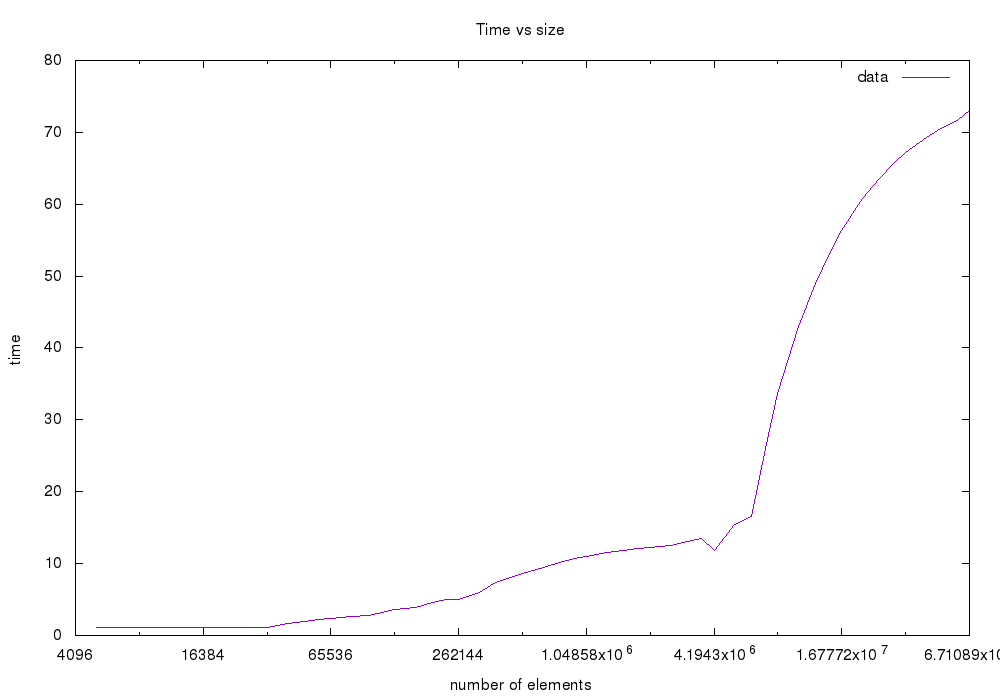
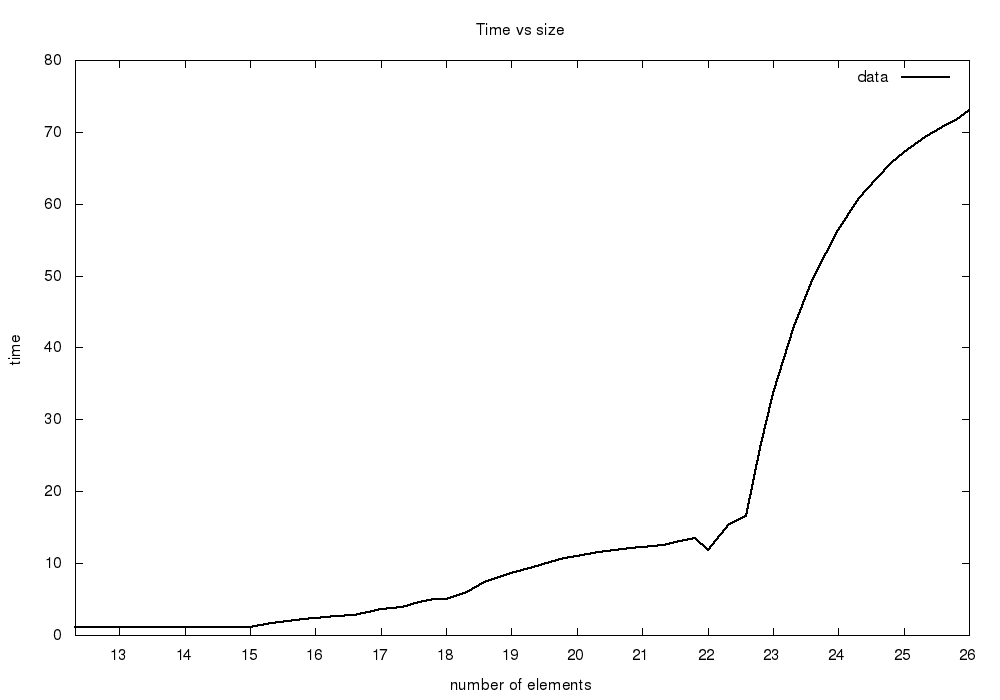
plotting update

diff --git a/hct.cpp b/hct.cpp
@@ -4,7 +4,7 @@
 #include <cstdlib>
 #include <cstring>
 using namespace std;
-#define UNROLLED
+//#define UNROLLED
 uint64_t Rand(){
 	return rand();
 }
@@ -21,7 +21,7 @@ struct link{
 	link * next;
 };
 void run_random_acesses(link * arr,const uint64_t iters){
-	uint64_t i = 0; 
+	uint64_t i = 0;
 #ifdef UNROLLED
 	for(;i < iters-8; i+=8){
 		arr = arr->next;

diff --git a/README.md b/README.md
@@ -1,10 +1,13 @@
-Files:
-	
-	
-Compiler:
-	g++ version 4.8, using the compile.sh script.
+Filename | descrtiption |
+--- | ---
+hct.cpp 					|c++ latency measurement code
+cupid.cpp					|c++ tool to gather cache size data using inline asm calls to cupid
+compile.sh 					|script that compiles hct.cpp and cupid.cpp
+stopped_out.col 			|raw data		
+graphplot.txt				|script that generates graph of the data
 
-## Latency collecting algorithm:
+
+### Latency collecting algorithm:
 
 ##### I created a linked list which had the following properties:
 
@@ -14,45 +17,65 @@ Compiler:
 4. The element it points to is in a random location in the buffer
 5. The linked list has no associated data, only the pointer to the next link
 6. There is only a single loop, so in order to get from a link back to the same link, one must go though every other link.
-	
-To time random acesses, I simply measured the time to iterate through the links 2^28 times.
-	
+
+To time random accesses, I simply measured the time to iterate through the links 2^28 times.
+
 ##### This has some good theoretical properties of measuring latencies:
 
-1. It measures true latency, because it absolutly has to fully bring the memory into the cpu in order to even attempt to start the next memory acess, so there is no possibility of instruction level parelelism making multiple memory acesses simeltaniously.
+1. It measures true latency, because it absolutely has to fully bring the memory into the register in order to even attempt to start the next memory access, so there is no possibility of instruction level parallelism making multiple memory accesses simultaneously.
 2. It completely foils the prefetcher, as it is random.
-		
-##### Bad properties:
-1. I am acessing 8 bytes at once instead of 1. This could theoretically lead to higher latency numbers than the true ones.
-2. I am only using 98% of the buffer because my list creation method is highly ineficcient, and is rather slow for high percentages of large buffer sizes. This means there is a potencial that cache sizes seem larger than the really are.
-		
-	
-I collected data by going into the linux command line, turning off the GUI entirely, and running my program.
 
-Data plot:
+##### Bad properties:
+1. I am accessing 8 bytes at once instead of 1. This could theoretically lead to higher numbers than the true ones, as it might be measuring some costs of moving 8 bytes around instead of just one.
+2. I am only using 98% of the buffer because my list creation method is highly inefficient, and is rather slow for high percentages of large buffer sizes. This means there is a potential that cache sizes seem larger than the really are.
+
+
+#### Producing data:
+
+To generate the data, I used g++ version 4.8, using the compile.sh script. It was done on a Intel 6700HQ processor, 2.7ghertz base, 3.5 max turbo, and seems to usually run at around 3.3. I ran the test from the Ubuntu shell with the graphical user interface entirely turned off to prevent other processes from ruining my data.
+
+#### Data plot
+
+I chose buffer sizes of 2^13-2^28 with 4 points between each power of two to creates a relatively continuous plot on the log scale.
 
 ![alt text](https://github.com/weepingwillowben/sysHW2/blob/master/clean.png "Clean graph")
 
-In the plot of the data, there is a fairly clear increase in latency at 
+In the plot of the data, there is a fairly clear increase in latency at 2^15, a less clear increase between 2^18 and 2^19, and other huge increase right before 2^19. So given just this data, and before I did the analysis that will follow, I thought it very reasonable that the places where there were sudden jumps in latency were exactly where the cache sizes ran out, so I guessed 32kB, around 300kB, and 7mB. I think my reasoning makes sense intuitively because the moment data has to be fetched from the next cache level (since the cache ran out), there will be many misses, and a noticeable increase in latency should follow.
 
-The graph is not monotonous or a step function, which should be expected because with random accesses, if I am using A bytes of memory over a size of B cache, then if A > B, there is a there will still be B bytes in the cache and so there will be  a B/A chance that the next bit of data is still in that cache, so in this simplistic model we should see
+According to my call to cupid (see cupid.cpp)
 
-    latency(BufferSize) = (Sum as i < current_cache_level of
-                                (CacheSize[i] - CacheSize[i-1]) * CacheLatency[i] / BufferSize
-    						)
-                          + CacheLatency[current_cache_level] * (BufferSize - CacheSize[current_cache_level-1]) / BufferSize
+    L1 Cache size = 32768
+    L2 Cache size = 262144
+    L3 Cache size = 6291456
+
+So my guesses were actually fairly close, all of the difference between my rough guesses and the real numbers can by explained by the fact that I did not collect that many data points, and the data tended to get kind of messy when shifting from the L2 to the L3 cache. More on that later.
+
+With a lot more thought, I came up with a more through understanding of why the graph looks the way it does.
+
+The graph is not monotonous or a step function, which should be expected because with random accesses, if I am using A bytes of memory over a size of B cache, then if A > B, there is a there will still be B bytes in the cache and so there will be  a B/A chance that the next bit of data is still in that cache, so in this simplistic model we should see something like the following formula:
+
+    latency(BufferSize):
+		buff_latency = 0
+		cache_level = current_cache_level(BufferSize)
+	 	for i < cache_level
+            buff_latency += CacheSize[i] - CacheSize[i-1]) * CacheLatency[i] / BufferSize
+		buff_latency += CacheLatency[cache_level] * (BufferSize - CacheSize[cache_level-1]) / BufferSize
+		return buff_latency
 
 
-After I got the true cache sizes from cupid, I made another plot, using the above formula and guessed values for the true latencies until the plot of the above function matched the data fairly well. 
+After I got the true cache sizes from cupid, I made another plot, using the above formula and guessed values for the true latencies until the plot of the above function matched the data fairly well.
 
-The plot of the function along with the data is in "measured.png". I think it shows that this is a pretty good model for random acesses on Intel's cache system.
+![alt text](https://github.com/weepingwillowben/sysHW2/blob/master/measured.png "Clean graph")
+
+I think it shows that the above model is a pretty good for truly random accesses on Intel's cache system. At the junction between the caches, there is a substantial difference between the expected and the real. Two places are especially interesting:
+
+Rather than flattening out, the 
 
 By the way, the latencies I guessed which matched the data fairly well are:
 
-    L1 = 1.15 ns
-    L2 = 3.5 ns
-    L3 = 13 ns
-    Main memory = 78 ns
-	
-So presumably the true latencies are close to these. The numbers are fairly close to the numbers in the chart, except the L1 cache latency is twice what was expected (since my machine is running at around 3.3ghertz, 1.1ns is almost exactly 3 cycles). I have no idea why. It is very possible that the loop isn't perfectly optimized and that it is doing other things than accessing random pointers. However, urolling the loop did not help noticably, so this seems unlikely (the unrolled code gets turned into a series of mov instructions). It might be that system iterups slowed it down in some consistent way, but increasing the number of iterations also did not help, so this also seems unlikely. Another possibility is that it really does take 3 cycles to acess a single value, put it in a register, and start the next memory acess. However, most of the time, due to the effects of pipelining and instruction-level parallelism, latency appears to be much lower.
+    L1 = 1.14 ns
+    L2 = 3.6 ns
+    L3 = 13.2 ns
+    Main memory = 78.5 ns
 
+So presumably the true latencies are close to these. The numbers are fairly close to the numbers in the chart, except the L1 cache latency is twice what was expected (since my machine is running at around 3.3ghertz, 1.1ns is almost exactly 3 cycles). I have no idea why. It is very possible that the loop isn't perfectly optimized and that it is doing other things than accessing random pointers. However, unrolling the loop did not help noticeably, so this seems unlikely (the unrolled code gets turned into a series of mov instructions). It might be that system interrupts slowed it down in some consistent way, but increasing the number of iterations also did not help, so this also seems unlikely. Another possibility is that it really does take 3 cycles to access a single value, put it in a register, and start the next memory access. However, most of the time, due to the effects of pipelining and instruction-level parallelism, latency appears to be much lower.
